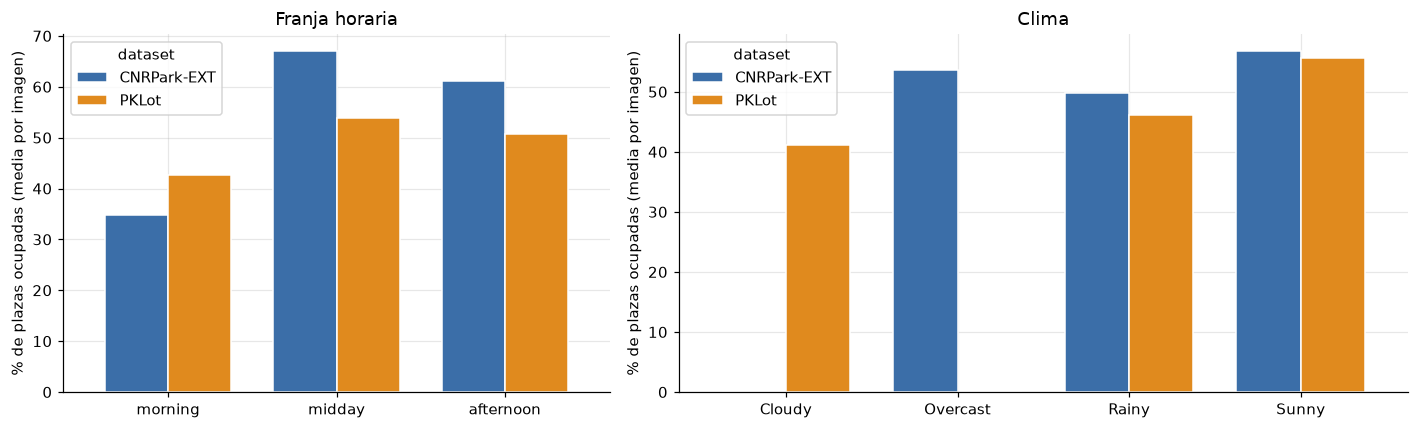
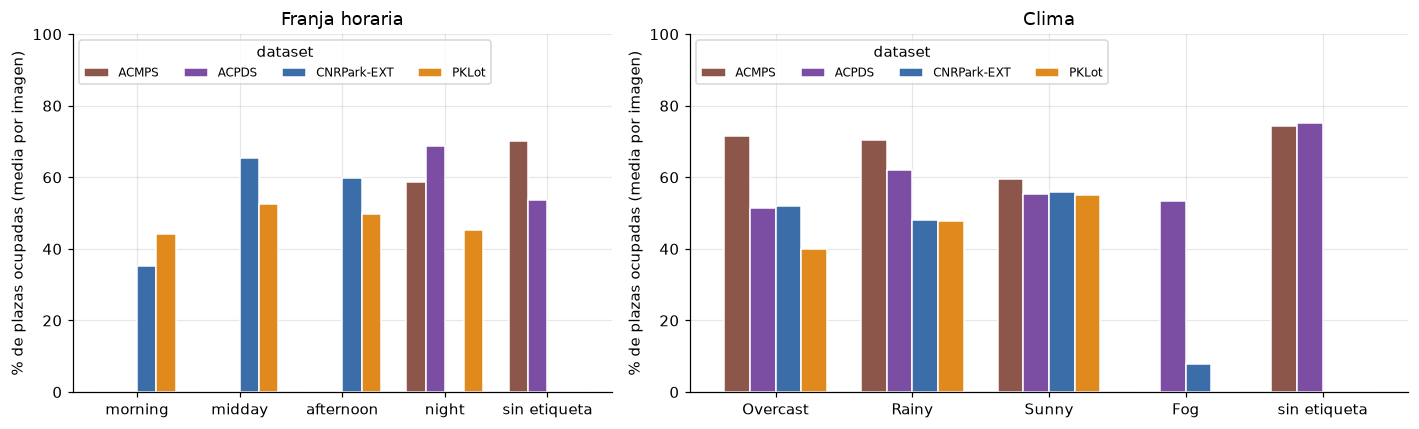
docs(dataset): rewrite README and assets for Meta-PKLot-mini 2.0
README: four datasets (PKLot, CNRPark-EXT, ACPDS, ACMPS), 4 993 images and
259 568 spots, the new schema (conditions, spot types, subsets, original),
the processing steps and usage with the tools library.

Assets: regenerate the figures from the 2.0 data, add conditions.png and
rebuild sample_vs_original.png against the original MetaPKLot.

diff --git a/huggingface/dataset/README.md b/huggingface/dataset/README.md
@@ -19,7 +19,7 @@ source_datasets:
 
 # Meta-PKLot-mini
 
-Subconjunto reducido de [MetaPKLot](https://huggingface.co/datasets/DSBD-Research/MetaPKLot-Dataset), preparado para detectar plazas de aparcamiento libres y ocupadas. Son 5 000 imágenes de dos datasets (PKLot y CNRPark-EXT) con 239 257 plazas anotadas, en formato COCO.
+Subconjunto reducido y ampliado de [MetaPKLot](https://huggingface.co/datasets/DSBD-Research/MetaPKLot-Dataset), preparado para detectar plazas de aparcamiento libres y ocupadas. Son 4 993 imágenes de cuatro datasets (PKLot, CNRPark-EXT, ACPDS y ACMPS) con 259 568 plazas anotadas, en formato COCO. Versión 2.0.
 
 ![Una imagen por subset, con sus plazas](assets/example_photos.png)
 
@@ -27,65 +27,98 @@ Subconjunto reducido de [MetaPKLot](https://huggingface.co/datasets/DSBD-Researc
 
 ## Origen
 
-[MetaPKLot](https://huggingface.co/datasets/DSBD-Research/MetaPKLot-Dataset) unifica y reanota tres datasets de aparcamientos: PKLot, CNRPark-EXT y PLds. Aquí solo se usan las anotaciones de plazas (`original/spots`) de PKLot y CNRPark-EXT.
+| Dataset     | Qué aporta                                        | Licencia                | Fuente                                                                       |
+| ----------- | ------------------------------------------------- | ----------------------- | ---------------------------------------------------------------------------- |
+| PKLot       | 3 aparcamientos con cámara fija                   | CC BY 4.0               | [MetaPKLot](https://huggingface.co/datasets/DSBD-Research/MetaPKLot-Dataset) |
+| CNRPark-EXT | 9 cámaras en un mismo aparcamiento                | ODbL v1.0               | [MetaPKLot](https://huggingface.co/datasets/DSBD-Research/MetaPKLot-Dataset) |
+| ACPDS       | 293 fotos de un aparcamiento hechas con una GoPro | MIT                     | [Eighonet/parking-research](https://github.com/Eighonet/parking-research)    |
+| ACMPS       | 2 aparcamientos, fotos de 1280×800 y 1280×736     | No indicada (repo: MIT) | [Eighonet/parking-research](https://github.com/Eighonet/parking-research)    |
+
+[MetaPKLot](https://huggingface.co/datasets/DSBD-Research/MetaPKLot-Dataset) unifica y reanota PKLot, CNRPark-EXT y PLds. Aquí solo se usan las anotaciones de plazas (`original/spots`) de PKLot y CNRPark-EXT. ACPDS y ACMPS son las versiones procesadas del repositorio [Eighonet/parking-research](https://github.com/Eighonet/parking-research). Ese mismo repositorio aporta las etiquetas de escena de CNRPark-EXT (`Glare`, `Occlusion_car`, `Occlusion_tree` y `Fog`).
+
+Referencias:
+
+- Marek (2021). *Image-Based Parking Space Occupancy Classification: Dataset and Baseline*. [arXiv:2107.12207](https://arxiv.org/abs/2107.12207). Origen de ACPDS.
+- Martynova et al. (2023). *Revising deep learning methods in parking lot occupancy detection*. [arXiv:2306.04288](https://arxiv.org/abs/2306.04288). Reúne ACPDS, ACMPS, PKLot, CNRPark y SPKL.
 
 ## Contenido
 
-| Propiedad         | Valor                                                             |
-| ----------------- | ----------------------------------------------------------------- |
-| Imágenes          | 5 000 (2 500 de PKLot y 2 500 de CNRPark-EXT)                     |
-| Plazas anotadas   | 239 257 (119 934 libres y 119 323 ocupadas)                       |
-| Plazas truncadas  | 2 220 (el recorte corta la plaza y se conserva ≥ 50 % de su área) |
-| Subsets de origen | 12 (3 aparcamientos de PKLot y 9 cámaras de CNRPark-EXT)          |
-| Días distintos    | 123, de 2012-09-11 a 2016-02-12                                   |
-| Climas            | Cloudy, Overcast, Rainy y Sunny                                   |
+| Propiedad         | Valor                                                                                  |
+| ----------------- | -------------------------------------------------------------------------------------- |
+| Imágenes          | 4 993 (1 600 de PKLot, 1 800 de CNRPark-EXT, 293 de ACPDS y 1 300 de ACMPS)            |
+| Plazas anotadas   | 259 568 (121 009 libres y 138 559 ocupadas)                                            |
+| Plazas truncadas  | 8 100 (el recorte corta la plaza y se conserva ≥ 50 % de su área)                      |
+| Plazas con cruz   | 221 (X pintada en el suelo, solo en ACPDS)                                             |
+| Subsets de origen | 15 (3 de PKLot, 9 cámaras de CNRPark-EXT, 1 de ACPDS y 2 de ACMPS)                     |
+| Días distintos    | 123, de 2012-09-11 a 2016-02-12 (ACPDS y ACMPS no tienen fecha)                        |
+| Climas            | Overcast (1 529), Rainy (825), Sunny (2 070) y Fog (50); 519 imágenes sin clima        |
+| Franjas horarias  | morning (1 199), midday (1 503), afternoon (651) y night (87); 1 553 sin franja        |
+| Condiciones       | Occlusion_tree (1 409), Perspective_distortion (293), Occlusion_car (111) y Glare (33) |
 
+| Dataset     | Subset    | Imágenes | Días | Plazas libres | Plazas ocupadas | Tamaño de imagen |
+| ----------- | --------- | -------: | ---: | ------------: | --------------: | ---------------- |
+| PKLot       | pucpr     |      300 |   37 |        32 375 |          26 125 | 1280×580         |
+| PKLot       | ufpr04    |      730 |   30 |        14 488 |          11 934 | 1280×720         |
+| PKLot       | ufpr05    |      570 |   33 |        11 322 |          14 898 | 1280×720         |
+| CNRPark-EXT | camera1   |      200 |   23 |         3 136 |           3 864 | 922×592          |
+| CNRPark-EXT | camera2   |      200 |   23 |           776 |           1 224 | 1000×750         |
+| CNRPark-EXT | camera3   |      200 |   23 |         2 067 |           2 533 | 1000×750         |
+| CNRPark-EXT | camera4   |      200 |   23 |         4 104 |           4 496 | 1000×750         |
+| CNRPark-EXT | camera5   |      200 |   23 |         5 471 |           5 529 | 1000×750         |
+| CNRPark-EXT | camera6   |      200 |   23 |         5 740 |           5 260 | 1000×750         |
+| CNRPark-EXT | camera7   |      200 |   23 |         5 591 |           5 009 | 1000×750         |
+| CNRPark-EXT | camera8   |      200 |   23 |         5 231 |           5 769 | 1000×750         |
+| CNRPark-EXT | camera9   |      200 |   23 |         3 684 |           3 716 | 825×750          |
+| ACPDS       | acpds     |      293 |    – |         5 860 |           5 376 | 1280×960         |
+| ACMPS       | parking01 |      650 |    – |         4 214 |          15 286 | 641×281          |
+| ACMPS       | parking02 |      650 |    – |        16 950 |          27 540 | 1158×470         |
 
-| Dataset     | Subset  | Imágenes | Días | Plazas libres | Plazas ocupadas | Tamaño de imagen |
-| ----------- | ------- | -------: | ---: | ------------: | --------------: | ---------------- |
-| PKLot       | pucpr   |      235 |   37 |        27 242 |          18 583 | 1280×580         |
-| PKLot       | ufpr04  |    1 268 |   30 |        25 125 |          20 771 | 1280×720         |
-| PKLot       | ufpr05  |      997 |   33 |        19 302 |          26 560 | 1280×720         |
-| CNRPark-EXT | camera1 |      278 |   23 |         4 054 |           5 676 | 922×592          |
-| CNRPark-EXT | camera2 |      278 |   23 |           993 |           1 787 | 1000×750         |
-| CNRPark-EXT | camera3 |      278 |   23 |         2 827 |           3 567 | 1000×750         |
-| CNRPark-EXT | camera4 |      278 |   23 |         5 535 |           6 419 | 1000×750         |
-| CNRPark-EXT | camera5 |      278 |   23 |         7 529 |           7 761 | 1000×750         |
-| CNRPark-EXT | camera6 |      278 |   23 |         7 646 |           7 644 | 1000×750         |
-| CNRPark-EXT | camera7 |      278 |   23 |         7 404 |           7 330 | 1000×750         |
-| CNRPark-EXT | camera8 |      278 |   23 |         7 371 |           7 919 | 1000×750         |
-| CNRPark-EXT | camera9 |      276 |   23 |         4 906 |           5 306 | 825×750          |
+El tamaño es el de la imagen ya recortada: cada subset tiene un único tamaño.
 
 ### Estructura
 
 ```text
 Meta-PKLot-mini/
-├── annotations.json   # COCO único con las 5 000 imágenes
-├── images/            # 00001.jpg ... 05000.jpg (nombre = id COCO de la imagen)
+├── annotations.json   # COCO único con las 4 993 imágenes
+├── images/            # 00001.jpg ... 04993.jpg (nombre = id COCO de la imagen)
 ├── assets/            # figuras de este README
-└── tools/             # notebook que genera el dataset
+└── tools/             # librería de lectura (meta_pklot_mini.py) y adaptador de PyTorch
 ```
 
 ### Formato de las anotaciones
 
-JSON tipo COCO con un esquema propio. Subset, clima y franja horaria son listas de consulta y cada imagen guarda solo el id. Todos los ids empiezan en 1.
+JSON tipo COCO con un esquema propio. Dataset, subset, clima, franja horaria, condiciones y tipo de plaza son listas de consulta, y cada imagen o plaza guarda solo el id. Todos los ids empiezan en 1.
 
 ```json
 {
-  "info": {},
-  "licenses": [],
-  "categories": [{"id": 1, "name": "empty"}, {"id": 2, "name": "occupied"}],
-  "climates": [{"id": 1, "name": "Cloudy"}, {"id": 2, "name": "Overcast"},
-               {"id": 3, "name": "Rainy"}, {"id": 4, "name": "Sunny"}],
-  "times_of_day": [{"id": 1, "name": "morning"}, {"id": 2, "name": "midday"},
-                   {"id": 3, "name": "afternoon"}],
-  "datasets": [
-    {"id": 1, "name": "PKLot", "subsets": [{"id": 1, "name": "pucpr"}, ...]},
-    {"id": 2, "name": "CNRPark-EXT", "subsets": [{"id": 4, "name": "camera1"}, ...]}
-  ],
+  "info": {},          // descripción, versión (2.0) y origen
+  "licenses": [],      // CC BY 4.0, ODbL v1.0, MIT, not stated
+  "categories": [],    // 1 = empty, 2 = occupied
+  "climates": [],      // 1 Overcast, 2 Rainy, 3 Sunny, 4 Fog (el Cloudy de PKLot es Overcast)
+  "times_of_day": [],  // 1 morning, 2 midday, 3 afternoon, 4 night
+  "conditions": [],    // 1 Glare, 2 Occlusion_car, 3 Occlusion_tree, 4 Perspective_distortion
+  "spot_types": [],    // 1 normal, 2 cross (X pintada en el suelo)
+  "datasets": [],      // PKLot, CNRPark-EXT, ACPDS y ACMPS, con licencia y enlaces
+  "subsets": [],       // parking y número de cámara
   "images": [],
   "annotations": []
 }
+```
+
+Listas de consulta. `images[].subset_id` apunta a `subsets`, `subsets[].dataset_id` a `datasets` y `datasets[].license_id` a `licenses`:
+
+```json
+"datasets": [
+  {"id": 1, "name": "PKLot", "license_id": 1,
+   "url": "https://web.inf.ufpr.br/vri/databases/parking-lot-database/",
+   "download_url": "https://huggingface.co/datasets/DSBD-Research/MetaPKLot-Dataset"},
+  ...
+],
+"subsets": [
+  {"id": 1, "dataset_id": 1, "parking": "pucpr", "camera": 1},
+  {"id": 4, "dataset_id": 2, "parking": "CNRPark-EXT", "camera": 1},
+  {"id": 14, "dataset_id": 4, "parking": "parking01", "camera": 1}
+]
 ```
 
 Cada imagen (`images`):
@@ -94,24 +127,27 @@ Cada imagen (`images`):
 {
   "id": 1,
   "file_name": "images/00001.jpg",
-  "width": 1280, "height": 580,
-  "subset_id": 1,
-  "date": "2012-11-20", "hour": 14,
-  "time_of_day_id": 2,
-  "climate_id": 4,
-  "empty_spots": 72, "occupied_spots": 123,
+  "width": 922, "height": 592,
+  "subset_id": 4,
+  "date": "2015-12-19", "hour": 9,
+  "time_of_day_id": 1,
+  "climate_id": 1,
+  "condition_ids": [3],
   "original": {
-    "id": 11000000023,
-    "file_name": "PKLot/PUCPR/Sunny/2012-11-20/2012-11-20_14_39_41.jpg",
-    "crop": [0, 140, 1280, 580]
+    "id": 21000000001,
+    "file_name": "CNRPark-EXT/camera1/OVERCAST/2015-12-19/2015-12-19_09_18_00.jpg",
+    "crop": [78, 158, 922, 592]
   }
 }
 ```
 
 - `file_name`: ruta relativa a la raíz del dataset.
-- `subset_id`: el dataset se obtiene de `datasets`.
-- `time_of_day_id`: `morning` hasta las 10 h, `midday` hasta las 15 h y `afternoon` el resto.
-- `original`: imagen de MetaPKLot de la que sale. `crop = [x, y, w, h]` es el `annotationsRectangle` aplicado, en coordenadas de la imagen completa.
+- `subset_id`: el dataset se obtiene de `subsets[].dataset_id`.
+- `date`, `hour`: `null` en ACPDS y ACMPS.
+- `time_of_day_id`: `morning` de 6 a 10 h, `midday` de 11 a 15 h, `afternoon` de 16 a 19 h y `night` de 20 a 5 h. En ACPDS y ACMPS no hay hora: solo es `night` si la foto lleva esa etiqueta, y el resto es `null`.
+- `climate_id`: `null` si la foto de ACPDS o ACMPS no trae clima.
+- `condition_ids`: etiquetas de escena. Vacío en PKLot.
+- `original`: de dónde sale la imagen. `id` es el de MetaPKLot (`null` en ACPDS y ACMPS). `crop = [x, y, w, h]` es el recorte aplicado, en coordenadas de la imagen original, y es `null` en ACPDS, que no se recorta.
 
 Cada anotación (`annotations`):
 
@@ -119,43 +155,50 @@ Cada anotación (`annotations`):
 {
   "id": 1,
   "image_id": 1,
-  "category_id": 2,
-  "segmentation": [[88.0, 53.0, 102.0, 27.0, 88.0, 27.0, 72.0, 49.0]],
-  "bbox": [72.0, 27.0, 30.0, 26.0],
-  "area": 390.0,
-  "iscrowd": 0,
-  "truncated": 0
+  "category_id": 1,
+  "segmentation": [[313.4, 170.6, 357.0, 199.4, 269.0, 261.5, 218.0, 234.4]],
+  "bbox": [218.0, 170.6, 139.0, 90.9],
+  "area": 5540.55,
+  "truncated": 0,
+  "spot_type_id": 1
 }
 ```
 
 - `segmentation`: polígono de la plaza, en coordenadas del recorte.
 - `bbox`: `[x, y, ancho, alto]`, con `(x, y)` en la esquina superior izquierda.
-- `iscrowd`: siempre 0.
+- `area`: área del polígono.
 - `truncated`: 1 si el recorte cortó la plaza.
+- `spot_type_id`: `2` (`cross`) para las plazas con una X pintada en el suelo.
 
 ## Análisis
 
 ### Balance de clases
 
-Las dos clases quedan equilibradas en casi todos los subsets.
+Hay un 47 % de plazas libres y un 53 % de ocupadas. Salvo `parking01` de ACMPS, con un 78 % de plazas ocupadas, todos los subsets tienen entre un 45 % y un 62 % de ocupadas.
 
 ![Porcentaje de plazas libres y ocupadas por subset](assets/class_balance.png)
 
 ### Ocupación según franja horaria y clima
 
-Se recogen ocupaciones distintas a lo largo del día y con distinto clima.
+Se recogen ocupaciones distintas a lo largo del día y con distinto clima. En CNRPark-EXT sube de un 35 % por la mañana a un 65 % al mediodía, y en PKLot de un 44 % a un 53 %. `sin etiqueta` agrupa las imágenes sin franja horaria o sin clima (ACPDS y ACMPS).
 
 ![Ocupación por franja horaria y clima](assets/occupancy.png)
 
 ### Imágenes por subset, franja y clima
 
-Las casillas a 0 indican condiciones que el modelo no verá en ese subset. Por ejemplo, CNRPark-EXT no tiene `Cloudy` y PKLot no tiene `Overcast`.
+Las casillas a 0 indican condiciones que el modelo no verá en ese subset. Por ejemplo, PKLot no tiene `Fog` y CNRPark-EXT no tiene `night`. ACPDS y ACMPS no tienen hora, así que sus imágenes caen en `sin etiqueta` salvo las de noche.
 
 ![Imágenes por subset, franja y clima](assets/coverage.png)
 
+### Condiciones
+
+Imágenes con cada etiqueta de escena, por dataset. Una imagen puede tener varias. El clima (con `Fog`) está en `climate_id` y la noche en `time_of_day_id`, no aquí.
+
+![Imágenes por condición](assets/conditions.png)
+
 ### Tamaño de las plazas
 
-Ancho y alto de la `bbox` en píxeles.
+Ancho y alto de la `bbox` en píxeles. La mediana va de 71×57 en PKLot a 125×52 en ACMPS, y ACPDS tiene la mayor dispersión (ancho del percentil 5 al 95 entre 41 y 281 px).
 
 ![Tamaño de las bbox](assets/spot_sizes.png)
 
@@ -168,25 +211,41 @@ Plazas recortadas por su `bbox`.
 ## Procesamiento aplicado
 
 1. **Filtrado.** Se quita PLds (sin imágenes) y las imágenes sin plazas anotadas.
-2. **Reparto.** 2 500 imágenes de cada dataset. En CNRPark-EXT, unas 278 por cámara. En PKLot el reparto iguala las plazas que aporta cada subset (235 imágenes de `pucpr`, 1 268 de `ufpr04` y 997 de `ufpr05`), porque `pucpr` tiene 195 plazas por imagen frente a unas 36 y 46.
-3. **Muestreo estratificado.** Dentro de cada subset se toma la misma fracción de cada combinación de día, franja horaria y clima, con `random_state=99`. La muestra conserva la proporción de plazas ocupadas y el reparto por franja del original.
+2. **Reparto.**
+   - CNRPark-EXT: 200 imágenes por cámara (1 800).
+   - PKLot: 300 de `pucpr`, 730 de `ufpr04` y 570 de `ufpr05` (1 600), porque `pucpr` tiene 195 plazas por imagen frente a unas 36 y 46.
+   - ACPDS: las 293 fotos.
+   - ACMPS: 650 de cada aparcamiento (1 300 de 13 101).
+3. **Muestreo estratificado.** En PKLot y CNRPark-EXT se toma, dentro de cada subset, la misma fracción de cada combinación de día, franja horaria y clima, con `random_state=99`. La muestra conserva la proporción de plazas ocupadas y el reparto por franja del original.
 
    ![Muestra frente a original](assets/sample_vs_original.png)
 
-4. **Recorte.** Cada imagen se recorta a su `annotationsRectangle`: fuera de esa región hay plazas sin anotar que el detector aprendería como fondo.
-5. **Normalización de las anotaciones.**
+   ACMPS no tiene fecha ni hora. Se toman casi enteras las etiquetas de clima escasas, el resto son fotos sin etiqueta, y dentro de cada grupo se reparte la muestra entre los días de la marca de tiempo del zip, para no coger fotos casi iguales.
+4. **Etiquetas de escena.**
+   - CNRPark-EXT: `Glare`, `Occlusion_car` y `Occlusion_tree` pasan a `condition_ids`, y `Fog` a `climate_id`. Las etiquetas se emparejan con las imágenes por el contenido del fichero (SHA-1), porque sus nombres se repiten entre cámaras. Se ignoran `Night` y las etiquetas de clima del zip.
+   - ACPDS y ACMPS: clima y escena salen de sus ficheros de etiquetas. Las 4 fotos `Infrared` de ACMPS no se usan.
+   - ACPDS: las plazas con una X pintada se marcaron a mano y pasan al tipo `cross`.
+5. **Recorte.** Cada imagen se recorta a una región con plazas anotadas, porque fuera hay plazas sin anotar que el detector aprendería como fondo.
+   - MetaPKLot: su `annotationsRectangle`.
+   - ACMPS: un rectángulo por aparcamiento, dibujado a mano y común a todas sus fotos.
+   - ACPDS: no se recorta. Sus fotos se reducen a 1280 px de lado mayor.
+6. **Normalización de las anotaciones.**
    - Las coordenadas se desplazan al origen del recorte.
    - El polígono se recorta al borde (Sutherland–Hodgman) y la plaza se marca `truncated = 1`. Si queda menos del 50 % de su área, se descarta.
-   - `bbox` y `area` se recalculan desde el polígono, con float de 2 decimales. En el original PKLot usa enteros y CNRPark-EXT decimales.
-   - Las categorías pasan a 1-based y los ids a secuenciales. El id de MetaPKLot de cada imagen se conserva en `original.id`.
+   - `bbox` y `area` se recalculan desde el polígono, con float de 2 decimales.
+   - Las categorías pasan a 1-based (el 0 queda para el fondo, como esperan torchvision y Faster R-CNN) y los ids a secuenciales.
    - Se descartan `car_id`, `best_rotated_rect` y el id original de cada plaza.
 
-El código está en `tools/PIC_Proyecto_Dataset_Mini.ipynb`.
+El notebook que genera el dataset es `PIC_Proyecto_Dataset_Mini.ipynb`, en la carpeta `notebooks` del repositorio del proyecto.
 
 ## Uso
 
+### Con la librería de `tools/`
+
+`meta_pklot_mini.py` lee y valida el dataset (solo usa la biblioteca estándar y Pillow). `meta_pklot_mini_torch.py` lo adapta a PyTorch.
+
 ```python
-import json
+import sys
 from huggingface_hub import snapshot_download
 
 path = snapshot_download(
@@ -194,6 +253,38 @@ path = snapshot_download(
     repo_type='dataset',
     local_dir='Meta-PKLot-mini',
 )
+sys.path.insert(0, f'{path}/tools')
+
+from meta_pklot_mini import MetaPKLotMini, split_photos
+
+ds = MetaPKLotMini(path)                          # valida el JSON y las imágenes al cargar
+photos = ds.photos(dataset='PKLot', climate='Sunny')
+photo = ds.photo(1)                               # por id COCO
+photo.image(), photo.spots                        # imagen PIL y plazas (label, bbox, polygon...)
+
+train, test = split_photos(ds, test_size=0.2)     # sin fuga: las fotos de un mismo día van juntas
+```
+
+```python
+from torch.utils.data import DataLoader
+from torchvision.transforms import v2
+from meta_pklot_mini_torch import DetectionDataset, SpotDataset, detection_collate
+
+# detección (Faster R-CNN...): num_classes = len(DetectionDataset.classes) = 3
+DataLoader(DetectionDataset(train), batch_size=4, collate_fn=detection_collate)
+
+# clasificación de plazas recortadas: 0 = empty, 1 = occupied
+spots = SpotDataset(train, transform=v2.Resize((64, 64)))
+DataLoader(spots, batch_size=64, shuffle=True)    # spots.targets sirve para un sampler
+```
+
+Si `annotations.json` está mal formado, la carga lanza `SchemaError`, `IntegrityError`, `GeometryError` o `ImageFileError` con la lista de problemas.
+
+### Solo el JSON
+
+```python
+import json
+
 coco = json.load(open(f'{path}/annotations.json'))
 ```
 
@@ -203,8 +294,10 @@ Meta-PKLot-mini mezcla recursos con condiciones distintas, por lo que usa `licen
 
 - **PKLot:** Creative Commons Attribution 4.0 International (CC BY 4.0).
 - **CNRPark-EXT:** Open Data Commons Open Database License (ODbL) v1.0.
+- **ACPDS:** MIT.
+- **ACMPS:** el repositorio de origen es MIT, pero no indica la licencia de los datos.
 
-Consulta las condiciones de cada dataset original antes de reutilizar las imágenes. El `subset_id` de cada imagen indica a qué dataset pertenece.
+Consulta las condiciones de cada dataset original antes de reutilizar las imágenes. El `subset_id` de cada imagen indica a qué dataset pertenece y `datasets[].license_id`, su licencia.
 
 ## Autores
 
